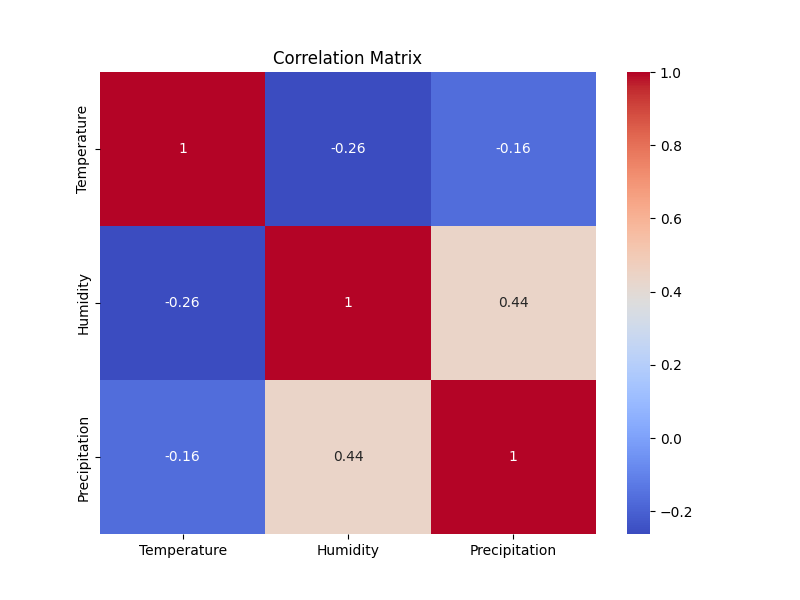
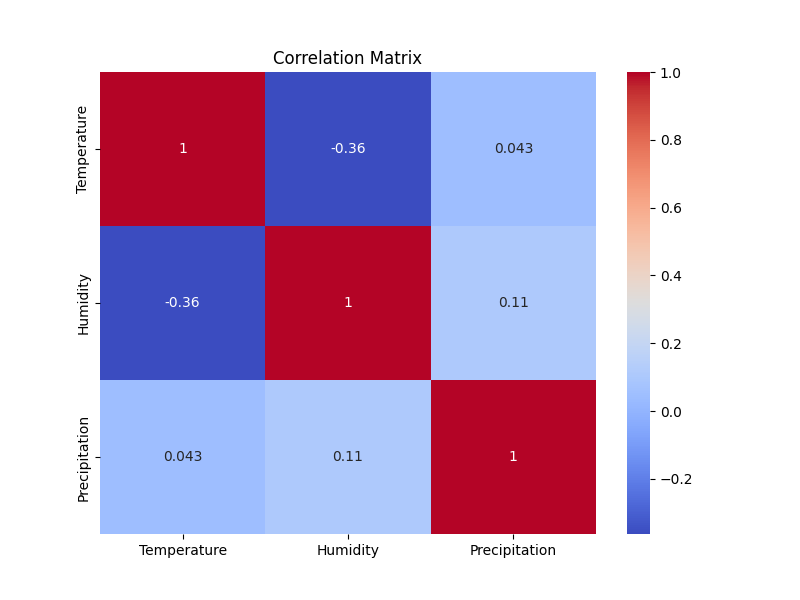
few test files
made few code changes added a.py a test file

diff --git a/a.py b/a.py
@@ -1,0 +1,151 @@
+# Import necessary libraries
+import pandas as pd
+import numpy as np
+import matplotlib.pyplot as plt
+import seaborn as sns
+from pgmpy.models import BayesianModel
+from pgmpy.estimators import HillClimbSearch, BicScore, MaximumLikelihoodEstimator
+from pgmpy.inference import VariableElimination
+
+# Imports for PyTorch and model evaluation
+import torch
+import torch.nn as nn
+from torch.utils.data import Dataset, DataLoader
+from sklearn.preprocessing import LabelEncoder, StandardScaler
+from sklearn.model_selection import KFold
+from sklearn.metrics import mean_squared_error
+
+# Imports for Prometheus monitoring
+from prometheus_client import start_http_server, Summary, Counter, Gauge
+import time
+
+# Imports for MLflow
+import mlflow
+import mlflow.pytorch
+import subprocess  # To start MLflow UI programmatically
+import sys         # To get the path to the Python executable
+import os          # For path manipulations
+
+if getattr(sys, 'frozen', False):
+    # If the application is running as a bundle (e.g., with PyInstaller)
+    script_dir = sys._MEIPASS
+else:
+    # If running in a normal Python environment
+    script_dir = os.path.dirname(os.path.abspath(__file__))
+
+# Construct the path to the data file
+data_path = os.path.join(script_dir, 'weatherAUS.csv')
+
+# Validate the existence of weatherAUS.csv
+if not os.path.isfile(data_path):
+    sys.exit(f"Error: Data file '{data_path}' not found. Ensure the file is in the correct location.")
+
+# Set the tracking URI for MLflow (adjust the path as needed)
+mlruns_path = os.path.join(script_dir, 'mlruns')
+mlflow.set_tracking_uri(f'file:///{mlruns_path}')
+
+# Ensure the 'mlruns' directory exists
+if not os.path.exists(mlruns_path):
+    os.makedirs(mlruns_path)
+
+# Start the MLflow UI programmatically
+mlflow_ui_process = subprocess.Popen([
+    sys.executable, '-m', 'mlflow', 'ui',
+    '--backend-store-uri', f'file:///{mlruns_path}',
+    '--port', '5000'
+])
+print("MLflow UI started at http://localhost:5000")
+
+# Load the dataset
+data = pd.read_csv(data_path)
+
+# Data Preprocessing
+# ==================
+data = data[['Location', 'MinTemp', 'MaxTemp', 'Humidity9am', 'Humidity3pm', 'Rainfall']]
+data.dropna(inplace=True)
+data['Temperature'] = data[['MinTemp', 'MaxTemp']].mean(axis=1)
+data['Humidity'] = data[['Humidity9am', 'Humidity3pm']].mean(axis=1)
+data['Precipitation'] = data['Rainfall']
+data = data[['Location', 'Temperature', 'Humidity', 'Precipitation']]
+
+# Discretize continuous variables
+from sklearn.preprocessing import KBinsDiscretizer
+continuous_vars = ['Temperature', 'Humidity', 'Precipitation']
+est = KBinsDiscretizer(n_bins=10, encode='ordinal', strategy='uniform')
+data[continuous_vars] = est.fit_transform(data[continuous_vars])
+data[continuous_vars] = data[continuous_vars].astype(int)
+
+# Encode categorical variables
+location_encoder = LabelEncoder()
+data['Location_encoded'] = location_encoder.fit_transform(data['Location'])
+data_model = data[['Location_encoded', 'Temperature', 'Humidity', 'Precipitation']]
+
+# Bayesian Network Structure Learning
+# ===================================
+hc = HillClimbSearch(data_model)
+best_model = hc.estimate(scoring_method=BicScore(data_model))
+model = BayesianModel(best_model.edges())
+model.fit(data_model, estimator=MaximumLikelihoodEstimator)
+infer = VariableElimination(model)
+
+# User Interaction and Predictions
+# ================================
+user_location = input("Enter a location (e.g., Sydney): ")
+
+# Check if the entered location exists in the dataset
+if user_location not in location_encoder.classes_:
+    print(f"Location '{user_location}' not found in the dataset.")
+    print("Available locations are:", list(location_encoder.classes_))
+    sys.exit("Exiting due to invalid location.")
+
+temperature_bin = input("Enter Temperature bin (0: Low, 1: Medium, 2: High, leave blank if unknown): ")
+if temperature_bin == '':
+    evidence = {'Location_encoded': location_encoder.transform([user_location])[0]}
+else:
+    try:
+        temperature_bin = int(temperature_bin)
+        if temperature_bin not in [0, 1, 2]:
+            raise ValueError
+        evidence = {
+            'Location_encoded': location_encoder.transform([user_location])[0],
+            'Temperature': temperature_bin
+        }
+    except ValueError:
+        sys.exit("Invalid Temperature bin. Please enter 0, 1, or 2.")
+
+# Predict Humidity and Precipitation
+q_humidity = infer.query(variables=['Humidity'], evidence=evidence)
+q_precipitation = infer.query(variables=['Precipitation'], evidence=evidence)
+
+# Calculate expected rainfall amount
+precipitation_bin_edges = est.bin_edges_[continuous_vars.index('Precipitation')]
+expected_rainfall = sum(
+    ((precipitation_bin_edges[i] + precipitation_bin_edges[i+1]) / 2) * q_precipitation.values[i]
+    for i in range(len(q_precipitation.values))
+)
+
+# Output Predictions
+print("\nPredicted Humidity given evidence:")
+for idx, prob in enumerate(q_humidity.values):
+    print(f"Humidity bin {idx} (approx. {est.bin_edges_[continuous_vars.index('Humidity')][idx]:.1f}% - {est.bin_edges_[continuous_vars.index('Humidity')][idx+1]:.1f}%): Probability = {prob:.4f}")
+
+print("\nPredicted Precipitation given evidence:")
+for idx, prob in enumerate(q_precipitation.values):
+    print(f"Precipitation bin {idx} (approx. {est.bin_edges_[continuous_vars.index('Precipitation')][idx]:.1f}mm - {est.bin_edges_[continuous_vars.index('Precipitation')][idx+1]:.1f}mm): Probability = {prob:.4f}")
+
+print(f"\nExpected Rainfall Amount: {expected_rainfall:.2f} mm")
+
+# Validate model file existence
+humidity_model_path = 'model_humidity.pth'
+precipitation_model_path = 'model_precipitation.pth'
+
+if not os.path.exists(humidity_model_path) or not os.path.exists(precipitation_model_path):
+    sys.exit(f"Error: Required model files ('{humidity_model_path}', '{precipitation_model_path}') are missing.")
+
+# Prometheus Monitoring Adjustments
+time.sleep(10)  # Wait before shutting down the Prometheus server
+print("Shutting down Prometheus metrics server.")
+
+# Terminate MLflow UI
+mlflow_ui_process.terminate()
+print("MLflow UI has been stopped.")

diff --git a/newBayesian.py b/newBayesian.py
@@ -35,7 +35,8 @@ else:
 
 # Construct the path to the data file
 data_path = os.path.join(script_dir, 'weatherAUS.csv')
-
+if not os.path.isfile(data_path):
+    sys.exit(f"Error: Data file '{data_path}' not found. Ensure the file is in the correct location.")
 # Set the tracking URI for MLflow (adjust the path as needed)
 # Get the absolute path to the 'mlruns' directory
 mlruns_path = os.path.join(script_dir, 'mlruns')
@@ -83,10 +84,15 @@ data = data[['Location', 'Temperature', 'Humidity', 'Precipitation']]
 
 # Discretize continuous variables using quantiles
 from sklearn.preprocessing import KBinsDiscretizer
-
+import warnings
 continuous_vars = ['Temperature', 'Humidity', 'Precipitation']
-
-est = KBinsDiscretizer(n_bins=3, encode='ordinal', strategy='quantile')
+warnings.filterwarnings("ignore", category=UserWarning, module="sklearn.preprocessing")
+est = KBinsDiscretizer(n_bins=10, encode='ordinal', strategy='uniform')
+try:
+    data[continuous_vars] = est.fit_transform(data[continuous_vars])
+except ValueError as e:
+    print(f"Discretization error: {e}")
+    sys.exit("Exiting due to data issues.")
 data[continuous_vars] = est.fit_transform(data[continuous_vars])
 
 data[continuous_vars] = data[continuous_vars].astype(int)
@@ -124,7 +130,7 @@ if user_location not in location_encoder.classes_:
     print(f"Location '{user_location}' not found in the dataset.")
     print("Available locations are:", list(location_encoder.classes_))
     print("Exiting the program due to invalid location.")
-    exit()  # Exit the script if the location is invalid
+    sys.exit()  # Exit the script if the location is invalid
 
 # Proceed with the rest of the code
 # Optionally, you can ask the user to input Temperature or use default
